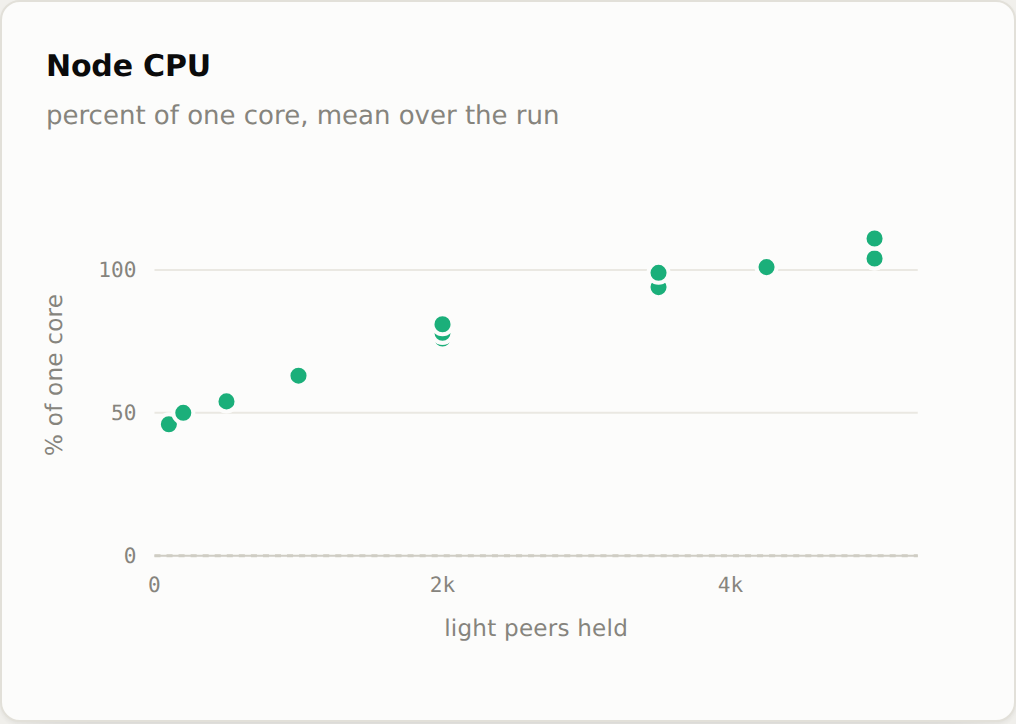
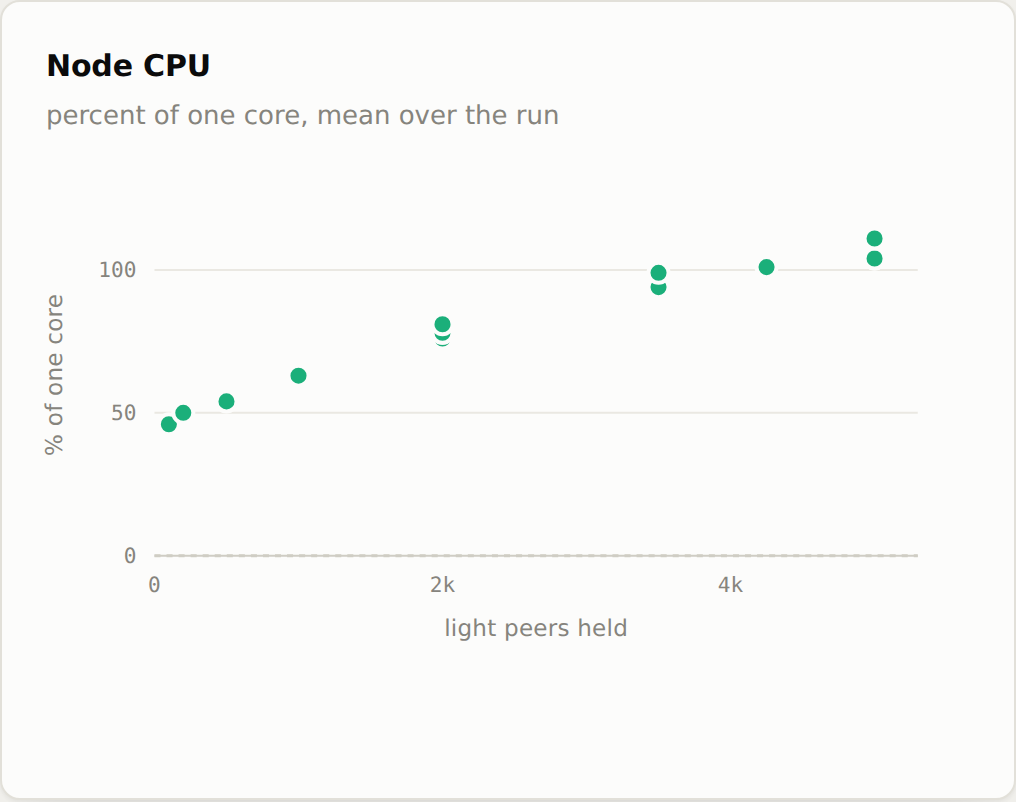
report: 2026-08-09T11:19Z

diff --git a/index.html b/index.html
@@ -250,7 +250,7 @@
         </div>
       </div>
       <div class="card">
-        <div class="card-head"><h3>Node RSS</h3><div class="card-note">peak resident memory, MB</div></div>
+        <div class="card-head"><h3>Node RSS</h3><div class="card-note">peak resident memory, MB — the node was not restarted between runs, so part of the run-to-run scatter is accumulated history, not peer count</div></div>
         <div class="chart-host">
           <svg id="c-rss" viewBox="0 0 460 260" role="img" aria-label="Node memory rises from about 1271 MB at 100 peers to about 2400 MB at 5000, with run-to-run scatter."></svg>
           <div class="tip" id="t-rss"></div>
@@ -377,7 +377,7 @@
 </div>
 
 <script>
-const D = {"peerRuns": [{"run": "light-100", "peers": 100, "drift": 1.3, "blocks": 48, "window": 295, "held": 100, "coverage": 100.0, "spread50": 1.3, "refused": 0, "evicted": 0, "rss": 1271, "cpu": 46, "fds": 1408, "finlag_mean": 2.9, "finlag_max": 4}, {"run": "light-200", "peers": 200, "drift": 1.3, "blocks": 49, "window": 295, "held": 200, "coverage": 100.0, "spread50": 2.2, "refused": 0, "evicted": 0, "rss": 1461, "cpu": 50, "fds": 1344, "finlag_mean": 2.9, "finlag_max": 5}, {"run": "light-500", "peers": 500, "drift": 1.4, "blocks": 46, "window": 295, "held": 500, "coverage": 100.0, "spread50": 5.4, "refused": 0, "evicted": 0, "rss": 1568, "cpu": 54, "fds": 1530, "finlag_mean": 2.9, "finlag_max": 4}, {"run": "light-1000-r1", "peers": 1000, "drift": 0.6, "blocks": 49, "window": 301, "held": 1000, "coverage": 100.0, "spread50": 10.0, "refused": 0, "evicted": 0, "rss": 1586, "cpu": 63, "fds": 2111, "finlag_mean": 2.9, "finlag_max": 4}, {"run": "light-1000-r2", "peers": 1000, "drift": -5.3, "blocks": 50, "window": 301, "held": 1000, "coverage": 100.0, "spread50": 10.1, "refused": 0, "evicted": 0, "rss": 1668, "cpu": 63, "fds": 2184, "finlag_mean": 3.0, "finlag_max": 5}, {"run": "light-2000-r1", "peers": 2000, "drift": -0.9, "blocks": 52, "window": 311, "held": 2000, "coverage": 100.0, "spread50": 19.3, "refused": 0, "evicted": 0, "rss": 1806, "cpu": 76, "fds": 3057, "finlag_mean": 3.8, "finlag_max": 5}, {"run": "light-2000-r2", "peers": 2000, "drift": -0.9, "blocks": 49, "window": 311, "held": 2000, "coverage": 100.0, "spread50": 20.0, "refused": 0, "evicted": 0, "rss": 1909, "cpu": 78, "fds": 3753, "finlag_mean": 3.0, "finlag_max": 5}, {"run": "light-2000-r3", "peers": 2000, "drift": -13.0, "blocks": 52, "window": 311, "held": 2000, "coverage": 100.0, "spread50": 20.2, "refused": 0, "evicted": 0, "rss": 1993, "cpu": 78, "fds": 3038, "finlag_mean": 2.9, "finlag_max": 4}, {"run": "light-2000-r4", "peers": 2000, "drift": -0.3, "blocks": 52, "window": 312, "held": 2000, "coverage": 100.0, "spread50": 18.7, "refused": 0, "evicted": 0, "rss": 2836, "cpu": 81, "fds": 3319, "finlag_mean": 3.1, "finlag_max": 5}, {"run": "light-3500-r1", "peers": 3500, "drift": -2.5, "blocks": 55, "window": 327, "held": 3500, "coverage": 100.0, "spread50": 33.0, "refused": 0, "evicted": 0, "rss": 2424, "cpu": 94, "fds": 5675, "finlag_mean": 3.0, "finlag_max": 5}, {"run": "light-3500-r2", "peers": 3500, "drift": -2.5, "blocks": 53, "window": 327, "held": 3500, "coverage": 100.0, "spread50": 32.6, "refused": 0, "evicted": 0, "rss": 2766, "cpu": 99, "fds": 5795, "finlag_mean": 3.3, "finlag_max": 5}, {"run": "light-4250-r1", "peers": 4250, "drift": 14.8, "blocks": 53, "window": 333, "held": 4250, "coverage": 100.0, "spread50": 32.7, "refused": 0, "evicted": 0, "rss": 2636, "cpu": 102, "fds": 5402, "finlag_mean": 1.3, "finlag_max": 3}, {"run": "light-4250-r2", "peers": 4250, "drift": 19.9, "blocks": 49, "window": 338, "held": 4250, "coverage": 100.0, "spread50": 33.1, "refused": 0, "evicted": 0, "rss": 2660, "cpu": 101, "fds": 5553, "finlag_mean": 1.5, "finlag_max": 4}, {"run": "light-5000-r1", "peers": 5000, "drift": 138.4, "blocks": 32, "window": 342, "held": 5000, "coverage": 100.0, "spread50": 38.2, "refused": 0, "evicted": 0, "rss": 2255, "cpu": 104, "fds": 6220, "finlag_mean": 1.1, "finlag_max": 4}, {"run": "light-5000-r2", "peers": 5000, "drift": 18.4, "blocks": 52, "window": 342, "held": 5000, "coverage": 100.0, "spread50": 36.4, "refused": 0, "evicted": 0, "rss": 2422, "cpu": 105, "fds": 6202, "finlag_mean": 1.4, "finlag_max": 3}, {"run": "light-5000-r3", "peers": 5000, "drift": 7.1, "blocks": 53, "window": 343, "held": 5000, "coverage": 100.0, "spread50": 36.4, "refused": 0, "evicted": 0, "rss": 2404, "cpu": 104, "fds": 6190, "finlag_mean": 1.3, "finlag_max": 3}, {"run": "light-5000-r4", "peers": 5000, "drift": 13.1, "blocks": 54, "window": 343, "held": 5000, "coverage": 100.0, "spread50": 34.8, "refused": 0, "evicted": 0, "rss": 2863, "cpu": 111, "fds": 6206, "finlag_mean": 1.8, "finlag_max": 4}], "traces": {"peers-6h": [[0, 0.0], [603, -3.0], [1207, -5.0], [1811, -1.0], [2415, -3.0], [3019, 1.0], [3623, -1.0]], "soak-6h": [[0, 0.0], [603, 3.0], [1206, 6.0], [1809, 3.0], [2412, 6.0], [3015, 3.0], [3618, 6.0], [4221, 3.0], [4824, -0.0], [5427, 3.0], [6030, 0.0], [6633, 3.0], [7237, 7.0], [7840, 4.0], [8443, 7.0], [9046, 4.0], [9649, 7.0], [10252, 4.0], [10855, 1.0], [11458, 4.0], [12061, 1.0], [12664, 4.0], [13267, 1.0], [13870, 4.0], [14474, 8.0], [15077, 5.0], [15680, 8.0], [16283, 5.0], [16886, 2.0], [17489, 5.0], [18092, 2.0], [18696, 0.0], [19300, 4.0], [19904, 8.0], [20507, 5.0], [21111, 3.0]], "soak-12h": [[0, 0.0], [603, 3.0], [1206, 0.0], [1809, 3.0], [2412, -0.0], [3015, -3.0], [3618, 0.0], [4221, -3.0], [4824, 0.0], [5427, 3.0], [6030, 0.0], [6633, 3.0], [7236, 0.0], [7839, 3.0], [8442, 0.0], [9045, -3.0], [9648, 0.0], [10251, -3.0], [10854, 0.0], [11457, -3.0], [12060, 0.0], [12664, 4.0], [13267, 1.0], [13870, 4.0], [14473, 1.0], [15076, -2.0], [15679, 1.0], [16282, -2.0], [16885, 1.0], [17488, 4.0], [18091, -5.0], [18695, -1.0], [19298, 2.0], [19901, 5.0], [20504, 2.0], [21107, -1.0], [21710, 2.0], [22313, -1.0], [22916, 2.0], [23519, -1.0], [24123, -3.0], [24726, -0.0], [25329, 3.0], [25932, -0.0], [26535, 3.0], [27138, -0.0], [27741, 3.0], [28344, 0.0], [28947, -3.0], [29550, -0.0], [30153, -3.0], [30756, 0.0], [31359, -3.0], [31963, 1.0], [32566, 4.0], [33169, 1.0], [33772, 4.0], [34375, 1.0], [34978, -2.0], [35581, 1.0], [36184, -2.0], [36787, 1.0], [37390, -2.0], [37993, 1.0], [38596, -2.0], [39199, 1.0], [39802, 4.0], [40406, 2.0], [41010, 0.0], [41614, -2.0], [42218, 2.0], [42822, 0.0]]}, "rss": {"peers-6h": [[0, 6523], [603, 6728], [1207, 6755], [1811, 6795], [2415, 6845], [3019, 6819], [3623, 6960]], "soak-6h": [[0, 3748], [603, 4101], [1206, 4310], [1809, 4336], [2412, 4452], [3015, 4503], [3618, 4653], [4221, 4788], [4824, 4861], [5427, 4961], [6030, 5034], [6633, 5156], [7237, 5276], [7840, 4815], [8443, 4976], [9046, 5050], [9649, 5156], [10252, 5209], [10855, 5259], [11458, 5391], [12061, 5437], [12664, 5491], [13267, 5559], [13870, 5609], [14474, 5663], [15077, 5701], [15680, 5781], [16283, 5732], [16886, 5841], [17489, 5856], [18092, 5565], [18696, 5120], [19300, 5133], [19904, 5123], [20507, 5070], [21111, 5074]], "soak-12h": [[0, 4805], [603, 5182], [1206, 5342], [1809, 5356], [2412, 5413], [3015, 5491], [3618, 5545], [4221, 5540], [4824, 5622], [5427, 5657], [6030, 5840], [6633, 5897], [7236, 5510], [7839, 5537], [8442, 5645], [9045, 5647], [9648, 5690], [10251, 5828], [10854, 5888], [11457, 5982], [12060, 6042], [12664, 6205], [13267, 6205], [13870, 6264], [14473, 6326], [15076, 6494], [15679, 6500], [16282, 6638], [16885, 6793], [17488, 6666], [18091, 6892], [18695, 6528], [19298, 6512], [19901, 6618], [20504, 6662], [21107, 6698], [21710, 6769], [22313, 6844], [22916, 6793], [23519, 6939], [24123, 6974], [24726, 6987], [25329, 7094], [25932, 7096], [26535, 7116], [27138, 7129], [27741, 7182], [28344, 7262], [28947, 7135], [29550, 6754], [30153, 6745], [30756, 6749], [31359, 6834], [31963, 6890], [32566, 6778], [33169, 6879], [33772, 6908], [34375, 6886], [34978, 7046], [35581, 7008], [36184, 7041], [36787, 7165], [37390, 7153], [37993, 7185], [38596, 7313], [39199, 7352], [39802, 7059], [40406, 6599], [41010, 6663], [41614, 6760], [42218, 6869], [42822, 6910]]}, "cpu": {"peers-6h": [[5, 102], [608, 86], [1212, 86], [1816, 68], [2420, 67], [3024, 77], [3628, 76]], "soak-6h": [[5, 108], [608, 476], [1211, 477], [1814, 464], [2417, 472], [3020, 473], [3623, 493], [4226, 473], [4829, 460], [5433, 470], [6036, 469], [6639, 463], [7242, 476], [7845, 467], [8448, 504], [9051, 468], [9654, 470], [10257, 483], [10860, 486], [11463, 466], [12066, 481], [12670, 472], [13273, 474], [13876, 474], [14479, 476], [15082, 472], [15685, 465], [16288, 492], [16891, 492], [17494, 472], [18097, 63], [18701, 77], [19305, 74], [19909, 88], [20513, 77], [21117, 60]], "soak-12h": [[5, 104], [608, 468], [1211, 472], [1814, 472], [2417, 464], [3020, 476], [3623, 481], [4226, 470], [4829, 465], [5432, 489], [6035, 483], [6638, 477], [7241, 478], [7844, 474], [8447, 473], [9050, 473], [9653, 477], [10256, 465], [10859, 482], [11462, 490], [12066, 470], [12669, 473], [13272, 472], [13875, 469], [14478, 481], [15081, 474], [15684, 466], [16287, 470], [16890, 470], [17493, 481], [18097, 466], [18700, 477], [19303, 476], [19906, 470], [20509, 469], [21112, 498], [21715, 476], [22318, 474], [22921, 468], [23525, 485], [24128, 479], [24731, 476], [25334, 485], [25937, 465], [26540, 471], [27143, 471], [27746, 474], [28349, 484], [28952, 497], [29555, 483], [30158, 487], [30761, 510], [31365, 470], [31968, 463], [32571, 469], [33174, 460], [33777, 469], [34380, 468], [34983, 464], [35586, 460], [36189, 479], [36792, 466], [37395, 475], [37998, 464], [38601, 462], [39204, 458], [39808, 64], [40411, 64], [41015, 75], [41619, 79], [42223, 82], [42827, 52]]}, "mixRuns": [{"run": "rep-base-1", "kind": "base", "i": 1, "drift": 0.0, "cpu": 85}, {"run": "rep-mix-1", "kind": "mix", "i": 1, "drift": 5.7, "cpu": 421}, {"run": "rep-base-2", "kind": "base", "i": 2, "drift": -0.1, "cpu": 88}, {"run": "rep-mix-2", "kind": "mix", "i": 2, "drift": -0.4, "cpu": 423}, {"run": "rep-base-3", "kind": "base", "i": 3, "drift": 0.1, "cpu": 87}, {"run": "rep-mix-3", "kind": "mix", "i": 3, "drift": -0.3, "cpu": 419}, {"run": "rep-base-4", "kind": "base", "i": 4, "drift": 5.9, "cpu": 84}, {"run": "rep-mix-4", "kind": "mix", "i": 4, "drift": -0.3, "cpu": 417}, {"run": "rep-base-5", "kind": "base", "i": 5, "drift": 0.1, "cpu": 86}, {"run": "rep-mix-5", "kind": "mix", "i": 5, "drift": 5.7, "cpu": 417}, {"run": "rep-base-6", "kind": "base", "i": 6, "drift": 6.0, "cpu": 86}, {"run": "rep-mix-6", "kind": "mix", "i": 6, "drift": -6.3, "cpu": 419}], "longRuns": [{"run": "peers-6h", "label": "6 h", "load": "peers only", "drift": -1.0, "hours": 1.05, "cpu": 80, "rss0": 6523, "rssMax": 6960}, {"run": "soak-6h", "label": "6 h", "load": "peers + serving mix", "drift": 1.5, "hours": 6.01, "cpu": 408, "rss0": 3748, "rssMax": 5974}, {"run": "soak-12h", "label": "12 h", "load": "peers + serving mix", "drift": -0.6, "hours": 12.0, "cpu": 442, "rss0": 4805, "rssMax": 7470}]};
+const D = {"peerRuns": [{"run": "light-100", "peers": 100, "drift": 1.3, "blocks": 48, "window": 295, "held": 100, "coverage": 100.0, "spread50": 1.3, "refused": 0, "evicted": 0, "rss": 1271, "cpu": 46, "fds": 1408, "finlag_mean": 2.9, "finlag_max": 4}, {"run": "light-200", "peers": 200, "drift": 1.3, "blocks": 49, "window": 295, "held": 200, "coverage": 100.0, "spread50": 2.2, "refused": 0, "evicted": 0, "rss": 1461, "cpu": 50, "fds": 1344, "finlag_mean": 2.9, "finlag_max": 5}, {"run": "light-500", "peers": 500, "drift": 1.4, "blocks": 46, "window": 295, "held": 500, "coverage": 100.0, "spread50": 5.4, "refused": 0, "evicted": 0, "rss": 1568, "cpu": 54, "fds": 1530, "finlag_mean": 2.9, "finlag_max": 4}, {"run": "light-1000-r1", "peers": 1000, "drift": 0.6, "blocks": 49, "window": 301, "held": 1000, "coverage": 100.0, "spread50": 10.0, "refused": 0, "evicted": 0, "rss": 1586, "cpu": 63, "fds": 2111, "finlag_mean": 2.9, "finlag_max": 4}, {"run": "light-1000-r2", "peers": 1000, "drift": -5.3, "blocks": 50, "window": 301, "held": 1000, "coverage": 100.0, "spread50": 10.1, "refused": 0, "evicted": 0, "rss": 1668, "cpu": 63, "fds": 2184, "finlag_mean": 3.0, "finlag_max": 5}, {"run": "light-2000-r1", "peers": 2000, "drift": -0.9, "blocks": 52, "window": 311, "held": 2000, "coverage": 100.0, "spread50": 19.3, "refused": 0, "evicted": 0, "rss": 1806, "cpu": 76, "fds": 3057, "finlag_mean": 3.8, "finlag_max": 5}, {"run": "light-2000-r2", "peers": 2000, "drift": -0.9, "blocks": 49, "window": 311, "held": 2000, "coverage": 100.0, "spread50": 20.0, "refused": 0, "evicted": 0, "rss": 1909, "cpu": 78, "fds": 3753, "finlag_mean": 3.0, "finlag_max": 5}, {"run": "light-2000-r3", "peers": 2000, "drift": -13.0, "blocks": 52, "window": 311, "held": 2000, "coverage": 100.0, "spread50": 20.2, "refused": 0, "evicted": 0, "rss": 1993, "cpu": 78, "fds": 3038, "finlag_mean": 2.9, "finlag_max": 4}, {"run": "light-2000-r4", "peers": 2000, "drift": -0.3, "blocks": 52, "window": 312, "held": 2000, "coverage": 100.0, "spread50": 18.7, "refused": 0, "evicted": 0, "rss": 2836, "cpu": 81, "fds": 3319, "finlag_mean": 3.1, "finlag_max": 5}, {"run": "light-3500-r1", "peers": 3500, "drift": -2.5, "blocks": 55, "window": 327, "held": 3500, "coverage": 100.0, "spread50": 33.0, "refused": 0, "evicted": 0, "rss": 2424, "cpu": 94, "fds": 5675, "finlag_mean": 3.0, "finlag_max": 5}, {"run": "light-3500-r2", "peers": 3500, "drift": -2.5, "blocks": 53, "window": 327, "held": 3500, "coverage": 100.0, "spread50": 32.6, "refused": 0, "evicted": 0, "rss": 2766, "cpu": 99, "fds": 5795, "finlag_mean": 3.3, "finlag_max": 5}, {"run": "light-4250-r1", "peers": 4250, "drift": 14.8, "blocks": 53, "window": 333, "held": 4250, "coverage": 100.0, "spread50": 32.7, "refused": 0, "evicted": 0, "rss": 2636, "cpu": 102, "fds": 5402, "finlag_mean": 1.3, "finlag_max": 3}, {"run": "light-4250-r2", "peers": 4250, "drift": 19.9, "blocks": 49, "window": 338, "held": 4250, "coverage": 100.0, "spread50": 33.1, "refused": 0, "evicted": 0, "rss": 2660, "cpu": 101, "fds": 5553, "finlag_mean": 1.5, "finlag_max": 4}, {"run": "light-5000-r1", "peers": 5000, "drift": 138.4, "blocks": 32, "window": 342, "held": 5000, "coverage": 100.0, "spread50": 38.2, "refused": 0, "evicted": 0, "rss": 2255, "cpu": 104, "fds": 6220, "finlag_mean": 1.1, "finlag_max": 4}, {"run": "light-5000-r2", "peers": 5000, "drift": 18.4, "blocks": 52, "window": 342, "held": 5000, "coverage": 100.0, "spread50": 36.4, "refused": 0, "evicted": 0, "rss": 2422, "cpu": 105, "fds": 6202, "finlag_mean": 1.4, "finlag_max": 3}, {"run": "light-5000-r3", "peers": 5000, "drift": 7.1, "blocks": 53, "window": 343, "held": 5000, "coverage": 100.0, "spread50": 36.4, "refused": 0, "evicted": 0, "rss": 2404, "cpu": 104, "fds": 6190, "finlag_mean": 1.3, "finlag_max": 3}, {"run": "light-5000-r4", "peers": 5000, "drift": 13.1, "blocks": 54, "window": 343, "held": 5000, "coverage": 100.0, "spread50": 34.8, "refused": 0, "evicted": 0, "rss": 2863, "cpu": 111, "fds": 6206, "finlag_mean": 1.8, "finlag_max": 4}], "traces": {"peers-6h": [[0, 0.0], [603, -3.0], [1207, -5.0], [1811, -1.0], [2415, -3.0], [3019, 1.0], [3623, -1.0]], "soak-6h": [[0, 0.0], [603, 3.0], [1206, 6.0], [1809, 3.0], [2412, 6.0], [3015, 3.0], [3618, 6.0], [4221, 3.0], [4824, -0.0], [5427, 3.0], [6030, 0.0], [6633, 3.0], [7237, 7.0], [7840, 4.0], [8443, 7.0], [9046, 4.0], [9649, 7.0], [10252, 4.0], [10855, 1.0], [11458, 4.0], [12061, 1.0], [12664, 4.0], [13267, 1.0], [13870, 4.0], [14474, 8.0], [15077, 5.0], [15680, 8.0], [16283, 5.0], [16886, 2.0], [17489, 5.0], [18092, 2.0], [18696, 0.0], [19300, 4.0], [19904, 8.0], [20507, 5.0], [21111, 3.0]], "soak-12h": [[0, 0.0], [603, 3.0], [1206, 0.0], [1809, 3.0], [2412, -0.0], [3015, -3.0], [3618, 0.0], [4221, -3.0], [4824, 0.0], [5427, 3.0], [6030, 0.0], [6633, 3.0], [7236, 0.0], [7839, 3.0], [8442, 0.0], [9045, -3.0], [9648, 0.0], [10251, -3.0], [10854, 0.0], [11457, -3.0], [12060, 0.0], [12664, 4.0], [13267, 1.0], [13870, 4.0], [14473, 1.0], [15076, -2.0], [15679, 1.0], [16282, -2.0], [16885, 1.0], [17488, 4.0], [18091, -5.0], [18695, -1.0], [19298, 2.0], [19901, 5.0], [20504, 2.0], [21107, -1.0], [21710, 2.0], [22313, -1.0], [22916, 2.0], [23519, -1.0], [24123, -3.0], [24726, -0.0], [25329, 3.0], [25932, -0.0], [26535, 3.0], [27138, -0.0], [27741, 3.0], [28344, 0.0], [28947, -3.0], [29550, -0.0], [30153, -3.0], [30756, 0.0], [31359, -3.0], [31963, 1.0], [32566, 4.0], [33169, 1.0], [33772, 4.0], [34375, 1.0], [34978, -2.0], [35581, 1.0], [36184, -2.0], [36787, 1.0], [37390, -2.0], [37993, 1.0], [38596, -2.0], [39199, 1.0], [39802, 4.0], [40406, 2.0], [41010, 0.0], [41614, -2.0], [42218, 2.0], [42822, 0.0]]}, "rss": {"peers-6h": [[0, 6523], [603, 6728], [1207, 6755], [1811, 6795], [2415, 6845], [3019, 6819], [3623, 6960]], "soak-6h": [[0, 3748], [603, 4101], [1206, 4310], [1809, 4336], [2412, 4452], [3015, 4503], [3618, 4653], [4221, 4788], [4824, 4861], [5427, 4961], [6030, 5034], [6633, 5156], [7237, 5276], [7840, 4815], [8443, 4976], [9046, 5050], [9649, 5156], [10252, 5209], [10855, 5259], [11458, 5391], [12061, 5437], [12664, 5491], [13267, 5559], [13870, 5609], [14474, 5663], [15077, 5701], [15680, 5781], [16283, 5732], [16886, 5841], [17489, 5856], [18092, 5565], [18696, 5120], [19300, 5133], [19904, 5123], [20507, 5070], [21111, 5074]], "soak-12h": [[0, 4805], [603, 5182], [1206, 5342], [1809, 5356], [2412, 5413], [3015, 5491], [3618, 5545], [4221, 5540], [4824, 5622], [5427, 5657], [6030, 5840], [6633, 5897], [7236, 5510], [7839, 5537], [8442, 5645], [9045, 5647], [9648, 5690], [10251, 5828], [10854, 5888], [11457, 5982], [12060, 6042], [12664, 6205], [13267, 6205], [13870, 6264], [14473, 6326], [15076, 6494], [15679, 6500], [16282, 6638], [16885, 6793], [17488, 6666], [18091, 6892], [18695, 6528], [19298, 6512], [19901, 6618], [20504, 6662], [21107, 6698], [21710, 6769], [22313, 6844], [22916, 6793], [23519, 6939], [24123, 6974], [24726, 6987], [25329, 7094], [25932, 7096], [26535, 7116], [27138, 7129], [27741, 7182], [28344, 7262], [28947, 7135], [29550, 6754], [30153, 6745], [30756, 6749], [31359, 6834], [31963, 6890], [32566, 6778], [33169, 6879], [33772, 6908], [34375, 6886], [34978, 7046], [35581, 7008], [36184, 7041], [36787, 7165], [37390, 7153], [37993, 7185], [38596, 7313], [39199, 7352], [39802, 7059], [40406, 6599], [41010, 6663], [41614, 6760], [42218, 6869], [42822, 6910]]}, "cpu": {"peers-6h": [[5, 102], [608, 86], [1212, 86], [1816, 68], [2420, 67], [3024, 77], [3628, 76]], "soak-6h": [[5, 108], [608, 476], [1211, 477], [1814, 464], [2417, 472], [3020, 473], [3623, 493], [4226, 473], [4829, 460], [5433, 470], [6036, 469], [6639, 463], [7242, 476], [7845, 467], [8448, 504], [9051, 468], [9654, 470], [10257, 483], [10860, 486], [11463, 466], [12066, 481], [12670, 472], [13273, 474], [13876, 474], [14479, 476], [15082, 472], [15685, 465], [16288, 492], [16891, 492], [17494, 472], [18097, 63], [18701, 77], [19305, 74], [19909, 88], [20513, 77], [21117, 60]], "soak-12h": [[5, 104], [608, 468], [1211, 472], [1814, 472], [2417, 464], [3020, 476], [3623, 481], [4226, 470], [4829, 465], [5432, 489], [6035, 483], [6638, 477], [7241, 478], [7844, 474], [8447, 473], [9050, 473], [9653, 477], [10256, 465], [10859, 482], [11462, 490], [12066, 470], [12669, 473], [13272, 472], [13875, 469], [14478, 481], [15081, 474], [15684, 466], [16287, 470], [16890, 470], [17493, 481], [18097, 466], [18700, 477], [19303, 476], [19906, 470], [20509, 469], [21112, 498], [21715, 476], [22318, 474], [22921, 468], [23525, 485], [24128, 479], [24731, 476], [25334, 485], [25937, 465], [26540, 471], [27143, 471], [27746, 474], [28349, 484], [28952, 497], [29555, 483], [30158, 487], [30761, 510], [31365, 470], [31968, 463], [32571, 469], [33174, 460], [33777, 469], [34380, 468], [34983, 464], [35586, 460], [36189, 479], [36792, 466], [37395, 475], [37998, 464], [38601, 462], [39204, 458], [39808, 64], [40411, 64], [41015, 75], [41619, 79], [42223, 82], [42827, 52]]}, "mixRuns": [{"run": "rep-base-1", "kind": "base", "i": 1, "drift": 0.0, "cpu": 85}, {"run": "rep-mix-1", "kind": "mix", "i": 1, "drift": 5.7, "cpu": 421}, {"run": "rep-base-2", "kind": "base", "i": 2, "drift": -0.1, "cpu": 88}, {"run": "rep-mix-2", "kind": "mix", "i": 2, "drift": -0.4, "cpu": 423}, {"run": "rep-base-3", "kind": "base", "i": 3, "drift": 0.1, "cpu": 87}, {"run": "rep-mix-3", "kind": "mix", "i": 3, "drift": -0.3, "cpu": 419}, {"run": "rep-base-4", "kind": "base", "i": 4, "drift": 5.9, "cpu": 84}, {"run": "rep-mix-4", "kind": "mix", "i": 4, "drift": -0.3, "cpu": 417}, {"run": "rep-base-5", "kind": "base", "i": 5, "drift": 0.1, "cpu": 86}, {"run": "rep-mix-5", "kind": "mix", "i": 5, "drift": 5.7, "cpu": 417}, {"run": "rep-base-6", "kind": "base", "i": 6, "drift": 6.0, "cpu": 86}, {"run": "rep-mix-6", "kind": "mix", "i": 6, "drift": -6.3, "cpu": 419}], "longRuns": [{"run": "peers-6h", "label": "6 h", "load": "peers only", "drift": -1.0, "hours": 1.13, "cpu": 80, "rss0": 6523, "rssMax": 6963}, {"run": "soak-6h", "label": "6 h", "load": "peers + serving mix", "drift": 1.5, "hours": 6.01, "cpu": 408, "rss0": 3748, "rssMax": 5974}, {"run": "soak-12h", "label": "12 h", "load": "peers + serving mix", "drift": -0.6, "hours": 12.0, "cpu": 442, "rss0": 4805, "rssMax": 7470}]};
 
 const el = (t, a) => { const n = document.createElementNS("http://www.w3.org/2000/svg", t);
   for (const k in a) n.setAttribute(k, a[k]); return n; };
@@ -459,10 +459,12 @@ function legend(id, items) {
   frame(svg, b, [0, 1000, 2000, 3000, 4000, 5000], ticks(ymin, ymax, 5),
     "light peers held", "chain drift (s)", v => v.toLocaleString(), v => v + "s");
 
+  const seen = {};                                    // offset runs with identical (peers, drift)
   D.peerRuns.forEach(r => {
     const bad = r.peers >= 4250, c = bad ? "var(--s2)" : "var(--s1)";
     const off = r.drift > ymax;                       // the stall is clamped to the top edge
-    const cx = b.x(r.peers), cy = b.y(off ? ymax : r.drift);
+    const key = r.peers + ":" + r.drift, dup = seen[key] || 0; seen[key] = dup + 1;
+    const cx = b.x(r.peers) + dup * 11, cy = b.y(off ? ymax : r.drift);
     const g = el("g", {});
     if (bad) {
       const k = 6.4;
